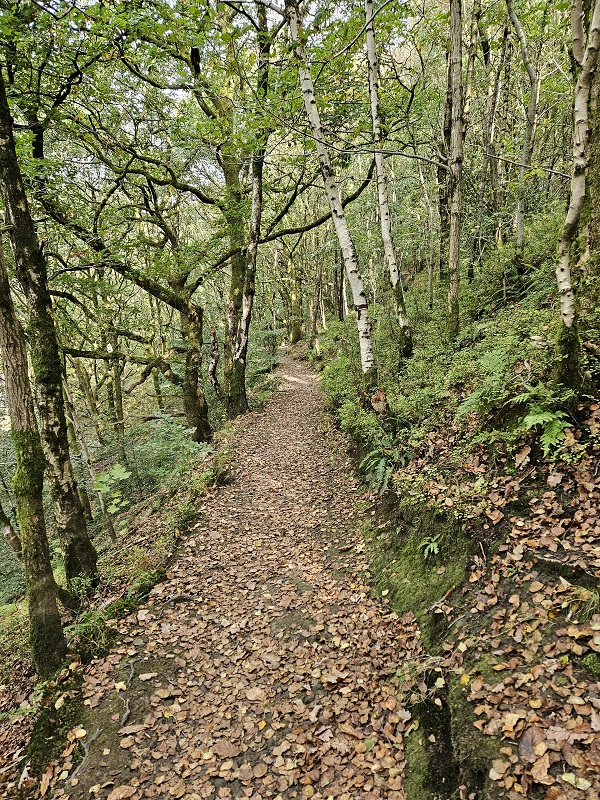
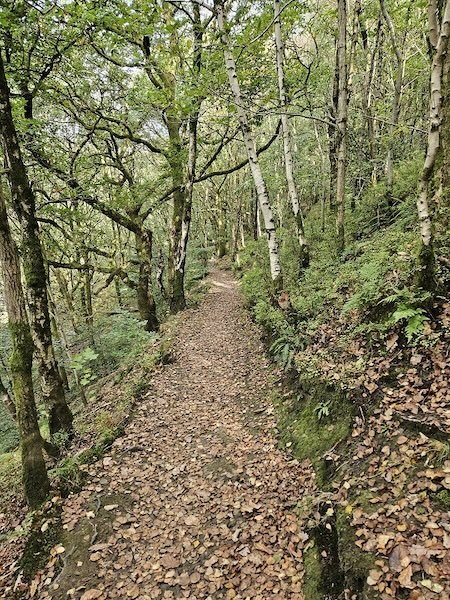
updates from 1to1. style and page bg removal, images compressed

diff --git a/index.html b/index.html
@@ -1,6 +1,5 @@
 <!DOCTYPE html>
 <html lang="en">
-
 <head class="container-fluid">
     <!-- SEO, ARIA, tags, fonts, favicon -->
     <meta charset="UTF-8">
@@ -15,7 +14,6 @@
     <!-- local style sheet comes after bootstrap! -->
     <link rel="stylesheet" href="assets/styles/styles.css">
 </head>
-
 <body>
     <!-- Landing page section. Should include the quick what we are and the CTA button and NavBar -->
     <!-- navbar. Has page title, Walks, Gallery and Contact Us. Burger drop down -->
@@ -50,8 +48,6 @@
         </nav>
     </div>
     <!-- </header> -->
-
-
     <!--                                         Main content-->
     <!-- bootstrap grid with 2 rows. 1 row of 2 items and 1 of 1 item(the img) mobile view is one long column,
       and lg becomes 2 columns - 1 of 2 items, 1 of 1 item. -->
@@ -83,7 +79,6 @@
                 <div class="tagline text-sm-center">
                     <h2><i class="fa-solid fa-mountain-city"></i> A place to find local walks around Manchester...</h2>
                 </div>
-
                 <div class="page-description large-hidden">
                     <p>
                         Welcome to A Walk In The Park walking group. We provide curated places to walk around the
@@ -92,38 +87,34 @@
                     </p>
                     <br>
                 </div>
-
             </section>
         </div>
-        <div class="row justify-content-center">
+        <div class="row justify-content-center center-space">
             <div class="col-6">
                 <button type="button" class="btn btn-primary btn-lg ">Sign up</button>
             </div>
         </div>
-
         <!-- section walks contains h3 text and a city image. This prefixes the walking cards -->
-
-
+        <hr>
         <div class="row">
-            <div class="col-12 col-md-3 align-self-end">
+            <div class="col-12 col-md-4 align-self-end">
                 <div>
                     <h3>Escape the buzz of the city... </h3>
                 </div>
             </div>
-            <div class="col-12 col-md-3 align-self-center">
+            <div class="col-12 col-md-4 align-self-center">
                 <div>
                     <img class="img-fluid" id="city-img" src="assets/images/manchester-city.jpg"
                         alt="Aerial view of Manchester city">
                 </div>
             </div>
-            <div class="col-12 col-md-3 text-sm-start">
+            <div class="col-12 col-md-4 text-sm-start">
                 <div>
                     <h3>... and find peace and tranquility in nature</h3>
                 </div>
-
             </div>
         </div>
-
+        <hr>
         <!--                                             WALKS section -->
         <section id="walks" class="bg-green">
             <div class="row justify-content-center">
@@ -132,7 +123,7 @@
                 </div>
             </div>
             <div class="row justify-content-center">
-                <div class="col-12 ">
+                <div class="col-12 table-walk">
                     <table class="table table-responsive table-hover table-borderless table-sm mobile-hidden">
                         <thead>
                             <tr>
@@ -177,7 +168,6 @@
                 </div>
             </div>
             <!--                            start cards section here -->
-
             <div class="row">
                 <div class="col-12 col-md-6 mb-3">
                     <div class="card w-220">
@@ -262,7 +252,6 @@
             </div>
         </section>       
     </main>
-
     <!-- footer -->
     <div class="container">
         <div class="row">
@@ -292,13 +281,10 @@
             </footer>
         </div>
     </div>
-
     <!-- bootstrap JS -->
     <script src="https://cdn.jsdelivr.net/npm/bootstrap@5.3.5/dist/js/bootstrap.bundle.min.js"
         integrity="sha384-k6d4wzSIapyDyv1kpU366/PK5hCdSbCRGRCMv+eplOQJWyd1fbcAu9OCUj5zNLiq"
         crossorigin="anonymous"></script>
     <script src="https://kit.fontawesome.com/4d2d2c68b5.js" crossorigin="anonymous"></script>
-
 </body>
-
 </html>

diff --git a/assets/styles/styles.css b/assets/styles/styles.css
@@ -10,7 +10,6 @@ Castleton Green: #056152
 Moonstone(blue): #429EA6
 set primary, secondary, bg colour variables
 */
-
 /* Font Awesome Icons 
 compass: <i class="fa-solid fa-compass"></i> 
 burger: <i class="fa-solid fa-bars"></i>
@@ -48,10 +47,12 @@ div {
   background-color: #056152;
 }
 body {
-  background: center/contain no-repeat url("/assets/images/tree-page-bg.jpg");
-  background-size: cover;
+  background-color: #dcecdc;
   height: 100%;
   margin: 42px 10px;
+}
+main {
+    background-color: #056152;
 }
 header {
   font-family: "Rubik Dirt", sans-serif;
@@ -63,7 +64,7 @@ h1 {
   font-family: var(--title-font);
   font-weight: 400;
   font-size: 2.5rem;
-  padding: 0 5px;
+  padding: 1rem;
 }
 h2,
 h3 {
@@ -80,14 +81,28 @@ p {
 .flex {
   display: flex;
 }
-
+.center-space {
+    text-align: center;
+    padding-bottom: 1rem;
+}
+.btn-primary {
+    background-color: #b4ceb3;
+    color: #076152;
+    border: none;
+}
 .bg-green {
   background-color: #056152;
+}
+.table-walk {
+    margin: 1rem 0;
 }
 .navbar {
   padding: 0;
   margin: 0 10px;
   justify-content: space-around;
+}
+.tagline {
+    padding: 1rem;
 }
 .navbar-brand {
   font-family: var(--title-font);
@@ -117,7 +132,6 @@ p {
   /* max-width: 300px; */
 }
 /* styling for table */
-
 /* footer */
 footer {
   background-color: var(--primary-color);
@@ -135,7 +149,6 @@ footer {
   list-style: none;
   font-size: 2rem;
 }
-
 /* media queries */
 @media screen and (min-width: 320px) {
   /* .navbar-brand{
